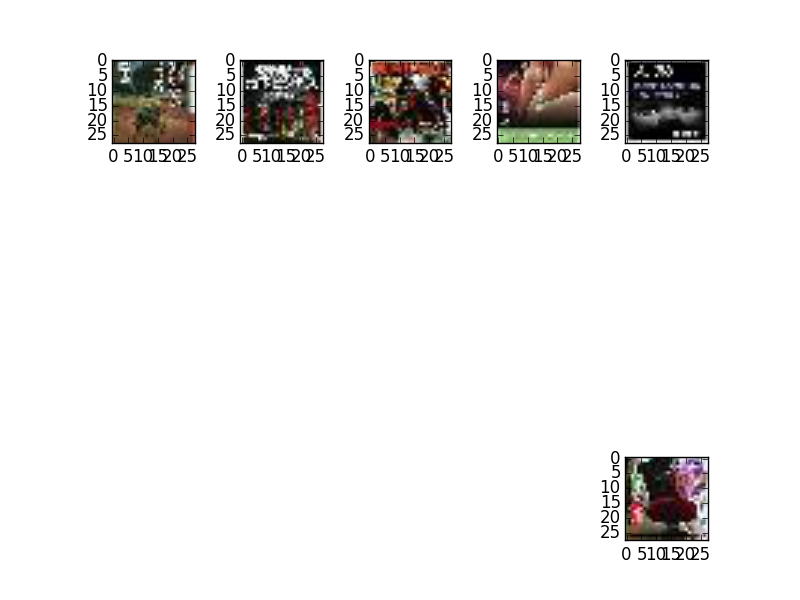
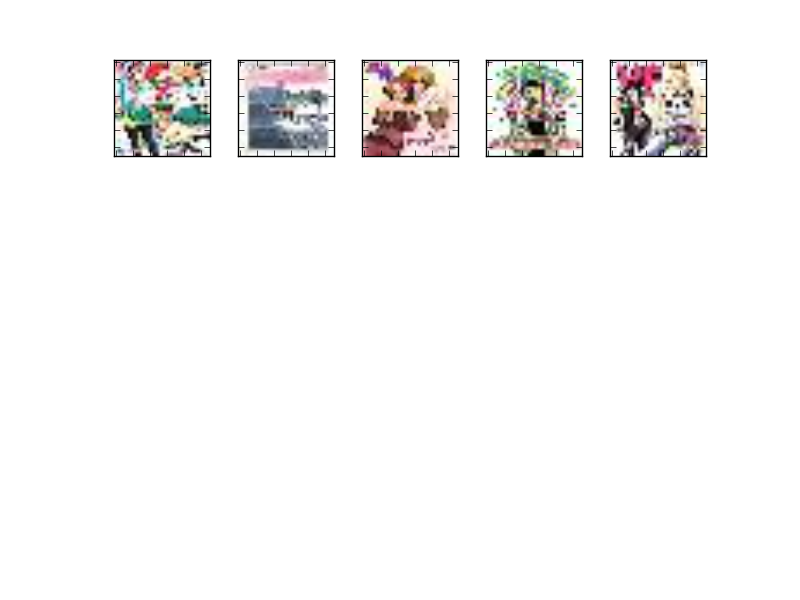
newsda_mnist experiment

Changed region(s): [[0.0938, 0.09, 0.9062, 0.27], [0.75, 0.75, 0.9062, 0.93]]

diff --git a/glyph/visualize.py b/glyph/visualize.py
@@ -235,7 +235,11 @@ def imageArray(images,row = 5, col = 5,title = "no title"):
     from matplotlib import pyplot as plt, cm as cm
     fig = plt.figure(title)
     for i, img in enumerate(images[:row*col]):
-        ax = fig.add_subplot(row,col,i)
+        ax = fig.add_subplot(row,col,i+1)
+        fig.subplots_adjust(hspace = 0.001,wspace = 0.001)
+        ax.set_xticklabels(())
+        ax.set_yticklabels(())
+        ax.tick_params(labelbottom='off',labelleft='off',labelright='off',labeltop='off')
         ax.imshow(img)
     return fig
 

diff --git a/glyph/experiment.py b/glyph/experiment.py
@@ -72,7 +72,8 @@ def experimentCase(paramPath,resultPath):
 
 if __name__ == '__main__':
     #experimentCase("../params/tiny.json","../experiments/tiny")
-    experimentCase("../params/newsda.json","../experiments/newsda")
+    #experimentCase("../params/newsda.json","../experiments/newsda")
+    experimentCase("../params/newsda_mnist.json","../experiments/newsda_mnist")
     #experimentCase("../params/tinysda.json","../experiments/tinysda")
     #experimentCase(*experiments()[0])
     #experimentAll()

diff --git a/glyph/util.py b/glyph/util.py
@@ -280,7 +280,6 @@ if __name__ == '__main__':
     for k,v in groups:
         print k,v
 
-
 def makeImage(data,resolution,tileShape):
     from utils import tile_raster_images
     try:
@@ -291,6 +290,8 @@ def makeImage(data,resolution,tileShape):
         tile_raster_images(X=data,
                            img_shape=resolution, tile_shape=tileShape,
                            tile_spacing=(1, 1)))
+
+
 
 def run_command(command):
     import subprocess

diff --git a/glyph/train.py b/glyph/train.py
@@ -113,7 +113,7 @@ def createEbookDataSet(info):
                          borrow=True)
 
 def createMnistDataSet(info):
-    print "createMnistDataSet:" + info
+    print "createMnistDataSet:" , info
     data = util.loadMnistData()
     print "created" , data
     return data[0][0] #train_set_x
